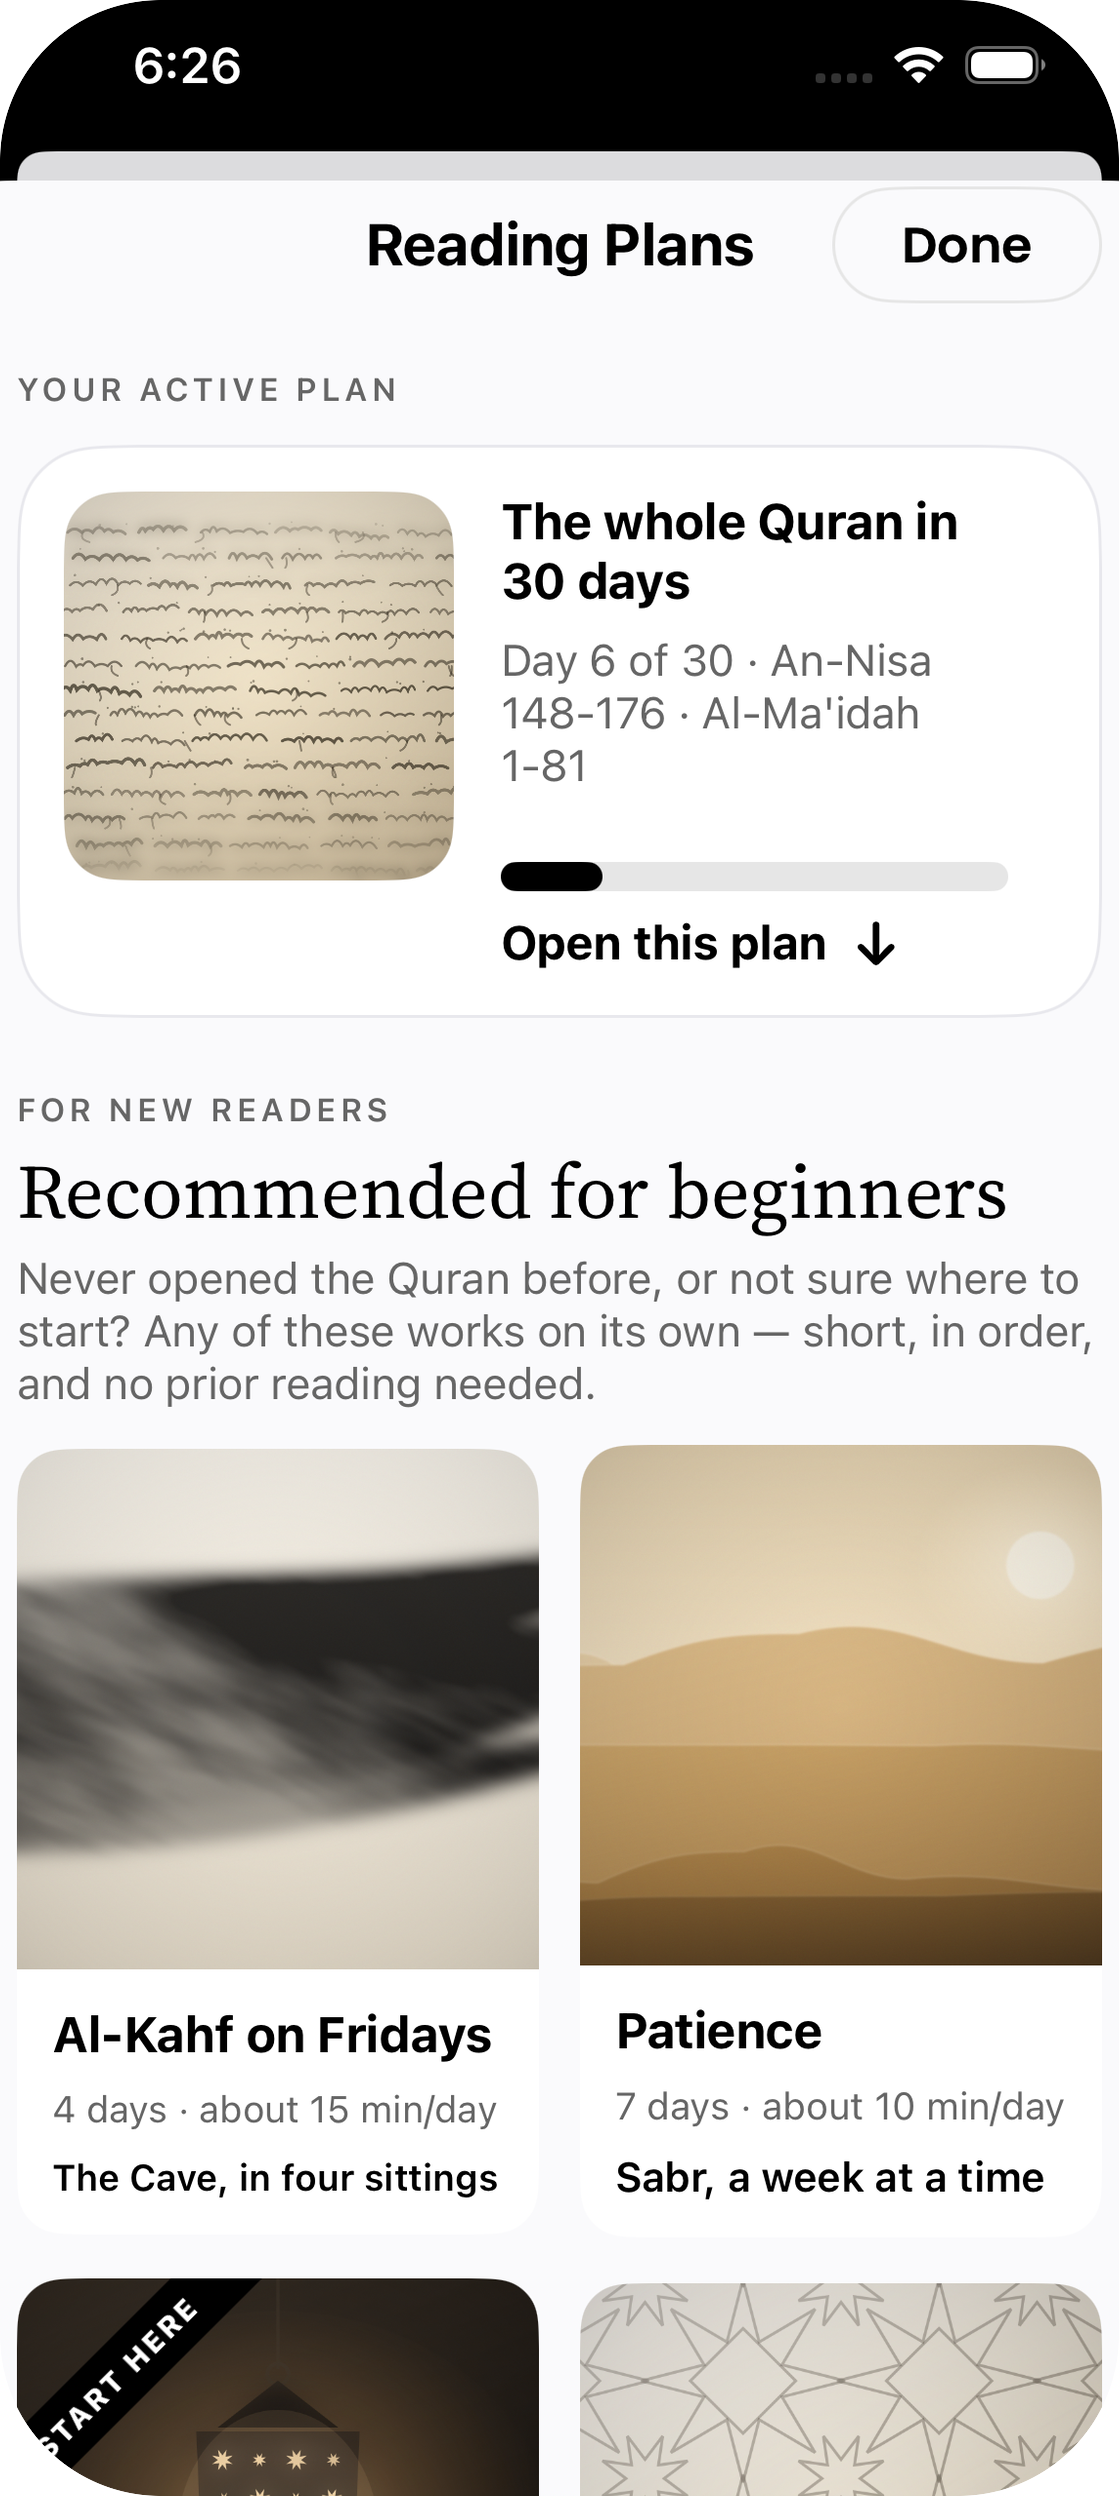
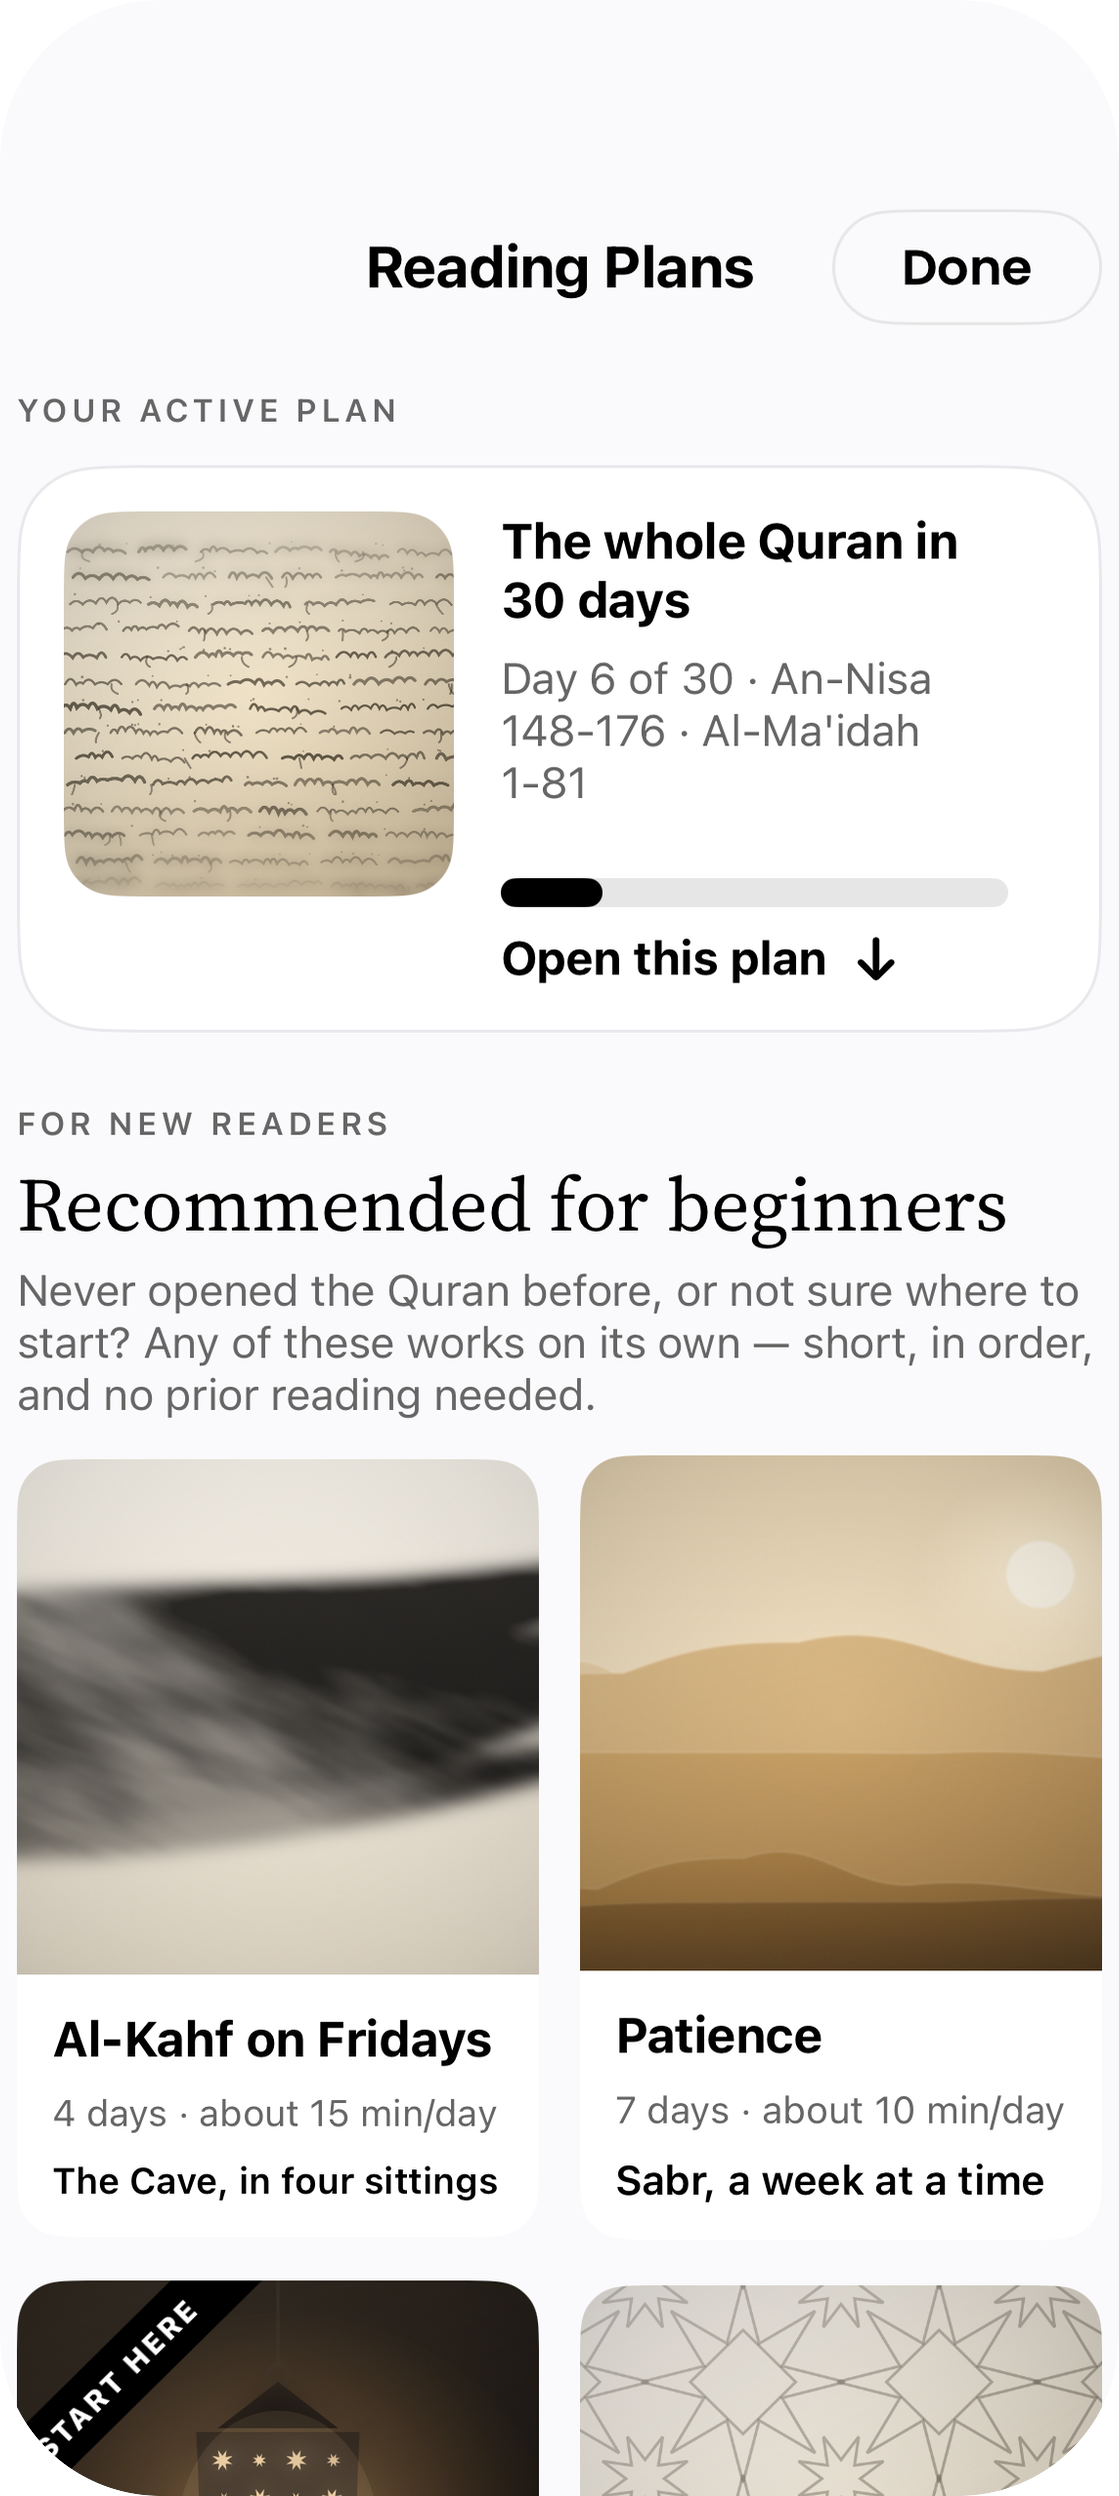
polish: plans mockup without the sheet's dimmed band; light card hairlines
Slide 2's phone frame showed the plans *sheet* — 185 px of dimmed parent screen
above the sheet's rounded top edge, which reads as a black bar inside a 228 pt
frame where the reference shows the plans list filling the screen.
render-mockups.sh now trims that band per mockup and pads the trim back with the
colour of the first surviving row, so the "Reading Plans / Done" header clears
the Dynamic Island that PhoneFrame draws over the top 26 pt instead of hiding
behind it. onboarding-slide2 0.1255 -> 0.1245.

Light-mode card contrast: `Color.cardBorder` and `CardContainer`'s hairline
already covered every card built on `CardContainer`, but four surfaces set
`Color.cardBackground` directly and had no edge at all on `#FAFAFC` — the
Community charity card, `PlanCard`, and both review cards. All four now draw the
same `.cardEdge(radius:)`, which is a no-op in dark appearance, so no measured
dark value changes.

diff --git a/Packages/ScrollKit/Sources/FeatureCommunity/CharityCard.swift b/Packages/ScrollKit/Sources/FeatureCommunity/CharityCard.swift
@@ -35,6 +35,10 @@ struct CharityCard: View {
         .frame(maxWidth: .infinity, alignment: .leading)
         .background(Color.cardBackground)
         .clipShape(.rect(cornerRadius: Radius.card, style: .continuous))
+        // The card is `#FFFFFF` on `Color.appBackground`'s `#FAFAFC`: a two-step
+        // difference with no edge of its own. The same hairline `CardContainer` draws,
+        // and a no-op in dark appearance. See `Color.cardBorder`.
+        .cardEdge(radius: Radius.card)
         .accessibilityElement(children: .contain)
         .accessibilityIdentifier("community.card.\(charity.id)")
     }

diff --git a/Packages/ScrollKit/Sources/FeatureOnboarding/Components/ReviewViews.swift b/Packages/ScrollKit/Sources/FeatureOnboarding/Components/ReviewViews.swift
@@ -82,6 +82,8 @@ struct ReviewCard: View {
         .clipShape(
             RoundedRectangle(cornerRadius: scale.width(OnboardingMetrics.cardCornerRadius), style: .continuous)
         )
+        // `#FFFFFF` on `#FAFAFC`. See `Color.cardBorder`; no-op on dark.
+        .cardEdge(radius: scale.width(OnboardingMetrics.cardCornerRadius))
         .accessibilityElement(children: .ignore)
         .accessibilityLabel(accessibilityLabel)
     }

diff --git a/Packages/ScrollKit/Sources/DesignSystem/Components/PlanCard.swift b/Packages/ScrollKit/Sources/DesignSystem/Components/PlanCard.swift
@@ -72,6 +72,8 @@ public struct PlanCard<Cover: View>: View {
         }
         .background(Color.cardBackground)
         .clipShape(.rect(cornerRadius: Radius.chip, style: .continuous))
+        // `#FFFFFF` on the plans sheet's `#FAFAFC`. See `Color.cardBorder`; no-op on dark.
+        .cardEdge(radius: Radius.chip)
         .accessibilityElement(children: .combine)
     }
 }

diff --git a/Packages/ScrollKit/Sources/DesignSystem/Components/ReviewCard.swift b/Packages/ScrollKit/Sources/DesignSystem/Components/ReviewCard.swift
@@ -39,6 +39,8 @@ public struct ReviewCard: View {
         }
         .background(Color.cardBackground)
         .clipShape(.rect(cornerRadius: Radius.cardSmall, style: .continuous))
+        // `#FFFFFF` on `#FAFAFC`. See `Color.cardBorder`; no-op on dark.
+        .cardEdge(radius: Radius.cardSmall)
         .accessibilityElement(children: .combine)
     }
 }
